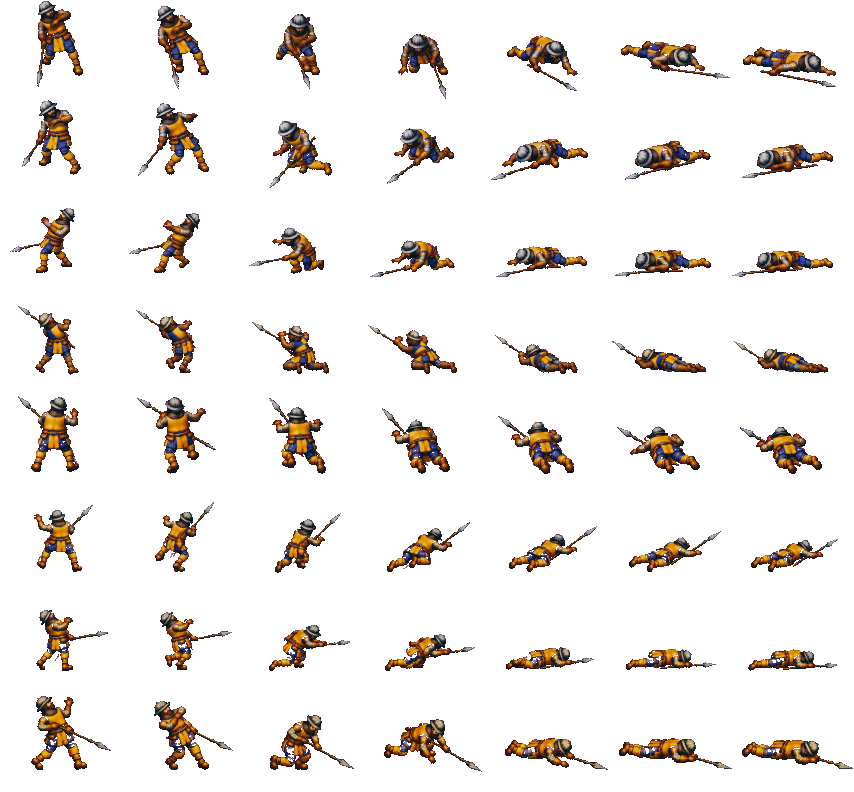
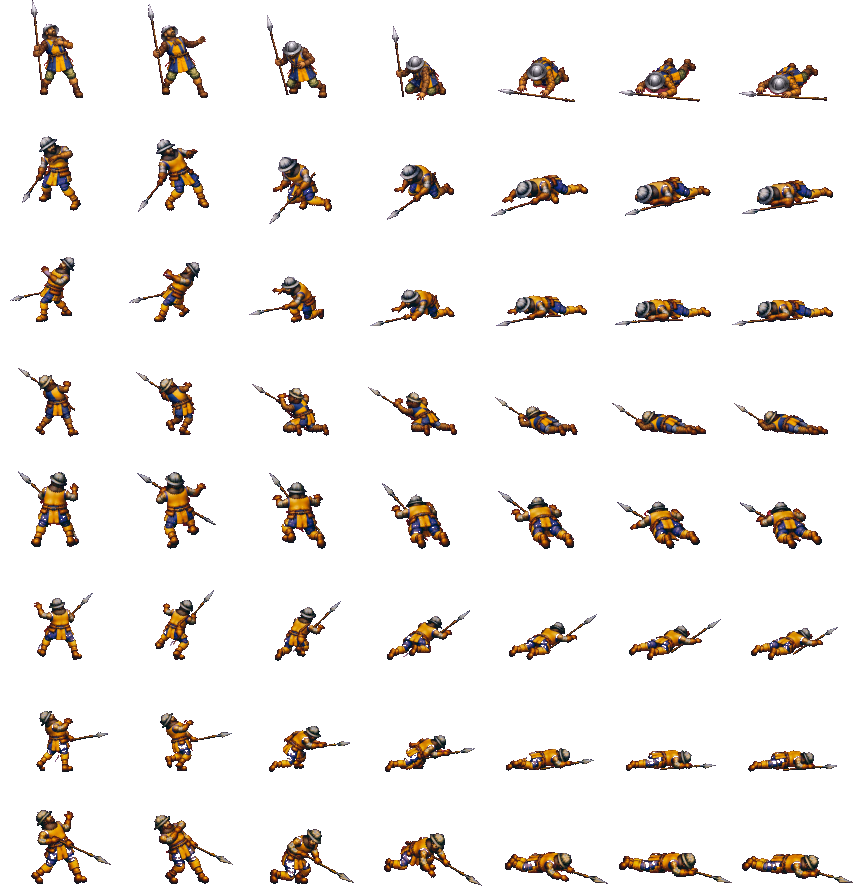
Vallen Z van de speerman in de stijl van vel 1
Mat, met een grijze helm en de blauw-gele wapenrok; hij valt voorover naar de kijker en ligt met de speer naast zich.
In het begin houdt hij de speer nu rechtop. Staan, lopen en aanvallen blijven pixel voor pixel hetzelfde.

diff --git a/beelden/beschrijving.js b/beelden/beschrijving.js
@@ -545,7 +545,7 @@
      "naam": "speerman",
      "cel": [
       155,
-      154
+      153
      ],
      "anker": [
       76,
@@ -614,11 +614,11 @@
        "herhaal": false,
        "cel": [
         122,
-        99
+        112
        ],
        "anker": [
         56,
-        75
+        98
        ]
       }
      }

diff --git a/ontwerp/werklijst.md b/ontwerp/werklijst.md
@@ -32,7 +32,7 @@ de pijplijn van vraag 180 (Q, f; niet in de cloud). **Bezig in sessie `lokaal-da
 **nieuwe weg** (Marcel, 21 okt: "Ok, dan zullen we moeten inventariseren welke gebouwen en poppetjes we nodig hebben. Dan
 kunnen we de andere generator deze 1 voor 1 laten maken. Jij moet dan zorgen dat ze passend worden in het spel"): de
 generator van zijn plaat maakt de bron, wij maken het passend; eerst de inventaris (`beelden-van-de-generator.md`). De
-speerman staat en loopt in het spel in acht richtingen (21 okt, de masterprompt); de aanval in alle acht richtingen en alle 25 vellen staan erin, lopen O, W en NO opnieuw met bewegende benen en de bouw van vel 1, aanvallen O, ZW en NO opnieuw zodat de punt op spelafstand het lijf raakt (22 okt; de speer steekt opzij van ernaast, verder van twee tegels, `steekReik`), en alle aanvallen in de stijl van vel 1; **wacht op Marcel**: vallen 18 tot 25 (behalve 21) in de stijl van vel 1, `beelden-van-de-generator.md` (in
+speerman staat en loopt in het spel in acht richtingen (21 okt, de masterprompt); de aanval in alle acht richtingen en alle 25 vellen staan erin, lopen O, W en NO opnieuw met bewegende benen en de bouw van vel 1, aanvallen O, ZW en NO opnieuw zodat de punt op spelafstand het lijf raakt (22 okt; de speer steekt opzij van ernaast, verder van twee tegels, `steekReik`), en alle aanvallen in de stijl van vel 1; **wacht op Marcel**: vallen 19, 20 en 22 tot 25 in de stijl van vel 1 (18 en 21 zijn binnen), `beelden-van-de-generator.md` (in
 het nieuwe gesprek, `beelden-van-de-generator.md`), en eventueel 3 en 4 opnieuw (de punt naar achteren).
 
 **Marcels acht punten van 20 okt** (R, vraag 182 tot 189: egaliseren met de schop, de maat van de huizen, dragers, een

diff --git a/ontwerp/beelden-van-de-generator.md b/ontwerp/beelden-van-de-generator.md
@@ -404,6 +404,9 @@ generator van 1,7 MB; op spelmaat is het verschil ruis) en lopen in het spel. Wa
   the pose of your earlier version of sheet 14: the spear held at the right side of his body [...] rising straight up
   beside his helmet, never over or behind the helmet; his hands stay low on the shaft [...] exactly vertical in all 8
   frames [...]": de punt op (7, -119) tegen (0, -104) op twee tegels. Alle acht aanvallen zijn nu in de stijl van vel 1.
+- **De stijl van vallen** (22 okt): met "redo 18: keep the fall of your last version [...] exactly, but draw him with
+  exactly the style and proportions of the attached sheet 1 [...]". Vallen Z kwam zo in de goede stijl, maar houdt de
+  speer in beeld 1 tot 4 nu rechtop in zijn linkerhand (bij aanvallen Z wijst hij naar rechtsonder).
   Aanvallen ZW kwam eerst van opzij (als W) en met twee beelden tegen elkaar; goed met "redo 11 again: this is
   Attacking SW, not W. He faces south-west, down and to the left, TOWARDS the viewer at three-quarters [...] the spear
   [...] pointing down and to the left at about 30 degrees below horizontal [...] almost as far to the left of his body as
